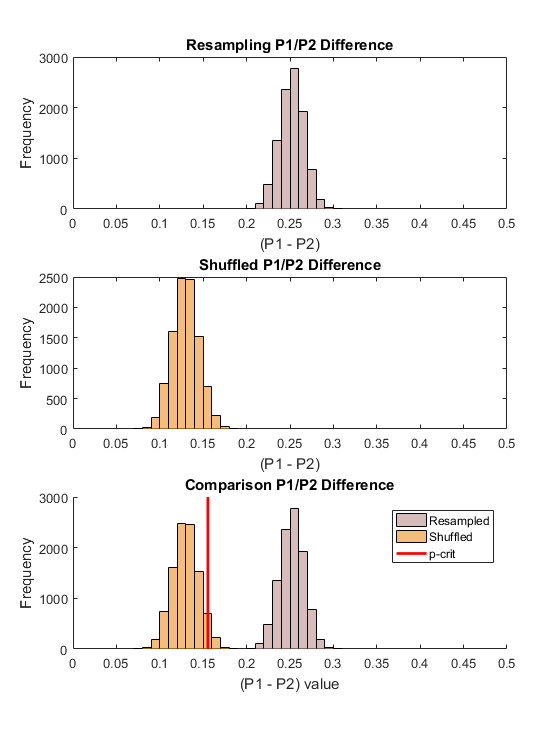
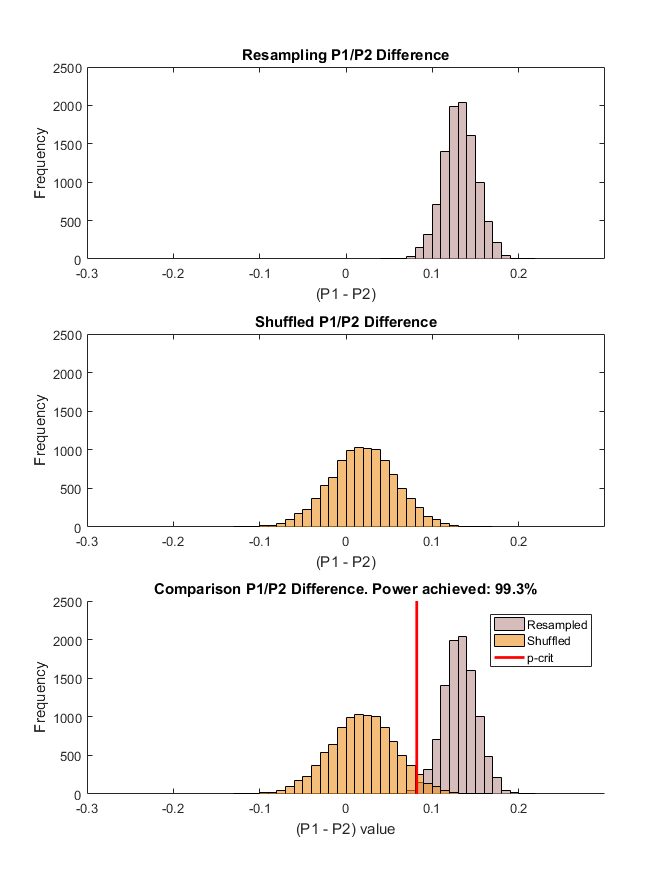
Updated quadsolve
and some minor other things

diff --git a/PECAR_resampshuffletest.m b/PECAR_resampshuffletest.m
@@ -22,58 +22,18 @@ savestuff = 0;  % Do you want to save figures?
 seed = 9192017;
 rng(seed)
 Nsamp = 10000;  % Number of samples to bootstrap
-scalehist = Nsamp/2;
+scalehist = Nsamp/4;
 
 datadr = 'C:\Users\Kit Moreland\Dropbox\UW\Research\DividedAttention\PECAR_DugueSenoussi\';
 datafile = dir([datadr,'*.mat']);
 load(fullfile(datadr, datafile.name))
 data = probe_info_valid;
 
-%% Resampling
+%% Resample and analyse, then shuffle and reanalyse for each run
 nsubj = length(data);
 
 P1_resamp = zeros(nsubj,Nsamp);
 P2_resamp = zeros(nsubj,Nsamp);
-
-for ss = 1:nsubj
-    nt = size(data{ss},1);  % Number of trials
-    
-    curd = data{ss}; % Pull current subj's data from cell array
-    
-    r1 = curd(:,3);     % Response 1
-    r2 = curd(:,4);     % Response 2
-    
-    % Resampling and analysis
-    for i = 1:Nsamp
-        
-        % Sample with replacement a sample of the same size for this
-        % subject. Need to sample the index so the pairing of probe 1 and
-        % two always remains matched.
-        idx = datasample(1:nt,nt);
-        r1tmp = r1(idx);
-        r2tmp = r2(idx);
-        
-        % Do the normal analysis for this sample and store
-        [P1_resamp(ss,i), P2_resamp(ss,i)] = quadsolve(r1tmp, r2tmp, nt);
-        
-    end
-end
-
-P1_resamp_mean = mean(P1_resamp,1);
-P2_resamp_mean = mean(P2_resamp,1);
-
-P1P2_resamp_diff = P1_resamp_mean - P2_resamp_mean;
-
-figure(1)
-clf
-subplot(3,1,1)
-histogram(P1P2_resamp_diff,'Binwidth',.01,'FaceColor',[188 143 143]/255)
-xlim([0,.5])
-xlabel('(P1 - P2)')
-ylabel('Frequency')
-title('Resampling P1/P2 Difference')
-%% Shuffling
-nsubj = length(data);
 
 P1_shuff = zeros(nsubj,Nsamp);
 P2_shuff = zeros(nsubj,Nsamp);
@@ -86,32 +46,55 @@ for ss = 1:nsubj
     r1 = curd(:,3);     % Response 1
     r2 = curd(:,4);     % Response 2
     
-    % Shuffling and analysis
     for i = 1:Nsamp
         
-        % Only shuffle one set of responses
-        idx = Shuffle(1:nt);
-        r1tmp = r1(idx);
-        r2tmp = r2;
-        
-        % Sanity check: If this shuffling works then it should keep things paired and using the same index should return the mean of the data under the original method. 
-%         r2tmp = r2(idx);
+        %--- Resampling
+        % Sample with replacement a sample of the same size for this
+        % subject. Need to sample the index so the pairing of probe 1 and
+        % two always remains matched.
+        idx = datasample(1:nt,nt);
+        r1tmp_resamp = r1(idx);
+        r2tmp_resamp = r2(idx);
         
         % Do the normal analysis for this sample and store
-        [P1_shuff(ss,i), P2_shuff(ss,i)] = quadsolve(r1tmp, r2tmp, nt);
+        [P1_resamp(ss,i), P2_resamp(ss,i)] = quadsolve(r1tmp_resamp, r2tmp_resamp, nt);
+        
+        %--- Shuffle
+        idx_sh = Shuffle(idx);
+        r1tmp_sh = r1(idx_sh); % Only shuffle one set of responses
+        r2tmp_sh = r2(idx);
+        
+        % Sanity check: If this shuffling works then it should keep things paired and using the same index should return the mean of the data under the original method. 
+%         r1tmp_sh = r1(idx);
+        
+        % Do the normal analysis for this sample and store
+        [P1_shuff(ss,i), P2_shuff(ss,i)] = quadsolve(r1tmp_sh, r2tmp_sh, nt);
         
     end
 end
 
+P1_resamp_mean = mean(P1_resamp,1);
+P2_resamp_mean = mean(P2_resamp,1);
 P1_shuff_mean = mean(P1_shuff,1);
 P2_shuff_mean = mean(P2_shuff,1);
 
+P1P2_resamp_diff = P1_resamp_mean - P2_resamp_mean;
 P1P2_shuff_diff = P1_shuff_mean - P2_shuff_mean;
 
 figure(1)
+clf
+subplot(3,1,1)
+histogram(P1P2_resamp_diff,'Binwidth',.01,'FaceColor',[188 143 143]/255)
+xlim([-.3,.3])
+ylim([0,scalehist])
+xlabel('(P1 - P2)')
+ylabel('Frequency')
+title('Resampling P1/P2 Difference')
+
 subplot(3,1,2)
 histogram(P1P2_shuff_diff,'Binwidth',.01,'FaceColor',[237 145 33]/255)
-xlim([0,.5])
+xlim([-.3,.3])
+ylim([0,scalehist])
 xlabel('(P1 - P2)')
 ylabel('Frequency')
 title('Shuffled P1/P2 Difference')
@@ -124,11 +107,10 @@ subplot(3,1,3)
 hold on
 histogram(P1P2_resamp_diff,'Binwidth',.01,'FaceColor',[188 143 143]/255)
 histogram(P1P2_shuff_diff,'Binwidth',.01,'FaceColor',[237 145 33]/255)
-xlim([0,.5])
+xlim([-.3,.3])
+ylim([0,scalehist])
 xlabel('(P1 - P2) value')
 ylabel('Frequency')
-title('Comparison P1/P2 Difference')
-
 
 p = .05; % What is our alpha?
 
@@ -140,4 +122,5 @@ legend({'Resampled','Shuffled','p-crit'})
 
 power_achieved = sum(P1P2_resamp_diff > crit)/length(P1P2_resamp_diff);
 fprintf('Power acheived: %.1f%%\n',power_achieved*100)
-ylim([0,scalehist])
+
+title(sprintf('Comparison P1/P2 Difference. Power achieved: %.1f%%',power_achieved*100))

diff --git a/PECAR_bootsim2.m b/PECAR_bootsim2.m
@@ -15,7 +15,7 @@ rng(seed)
 Nboot = 10000;  % Number of samples to bootstrap
 Nsim = 100;     % Number of times to simulate the data set
 nTrials = 1400; % Nunber of trials per simulation
-scalehist = Nsim/2;
+scalehist = Nsim/4;
 
 datadr = 'C:\Users\Kit Moreland\Dropbox\UW\Research\DividedAttention\PECAR_DugueSenoussi\';
 datafile = dir([datadr,'*.mat']);
@@ -203,14 +203,14 @@ subplot(4,3,5)
 histogram(P1_sim_switch,'BinWidth',.01)
 xlabel('P1 value')
 ylabel('Frequency')
-xlim([0,1])
+xlim([-.2,.6])
 ylim([0,scalehist])
 % P2
 subplot(4,3,8)
 histogram(P2_sim_switch,'BinWidth',.01)
 xlabel('P2 value')
 ylabel('Frequency')
-xlim([0,1])
+xlim([-.2,.6])
 ylim([0,scalehist])
 
 % pDif
@@ -219,7 +219,7 @@ subplot(4,3,11)
 histogram(Pdif_switch,'BinWidth',.01)
 xlabel('(P1 - P2) value')
 ylabel('Frequency')
-xlim([0,1])
+xlim([-.2,.6])
 ylim([0,scalehist])
 
 %% 2. Unlimited parallel
@@ -299,14 +299,14 @@ subplot(4,3,6)
 histogram(P1_sim_unlim,'BinWidth',.01)
 xlabel('P1 value')
 ylabel('Frequency')
-xlim([0,1])
+xlim([-.2,.6])
 ylim([0,scalehist])
 % P2
 subplot(4,3,9)
 histogram(P2_sim_unlim,'BinWidth',.01)
 xlabel('P2 value')
 ylabel('Frequency')
-xlim([0,1])
+xlim([-.2,.6])
 ylim([0,scalehist])
 
 % pDif
@@ -315,7 +315,8 @@ subplot(4,3,12)
 histogram(Pdif_unlim,'BinWidth',.01)
 xlabel('(P1 - P2) value')
 ylabel('Frequency')
-xlim([0,1])
+xlim([-.2,.6])
+ylim([0,scalehist])
 
 %% Calculate the achieved power under the two scenarios above
 
@@ -325,4 +326,4 @@ p = .05; % What is our alpha?
 crit = prctile(Pdif_unlim,(1-p)*100);
 power_achieved = sum(Pdif_switch > crit)/length(Pdif_switch);
 fprintf('Power acheived: %.1f%%\n',power_achieved*100)
-ylim([0,scalehist])
+text(.2,10,sprintf('Power achieved: %.1f%%',power_achieved*100))

diff --git a/quadsolve.m b/quadsolve.m
@@ -4,6 +4,9 @@
 % resp1 and resp2 are vectors of boolean responses to the probes.
 % P1 and P2 are the probabilty of being correct on the 'attended' and
 % 'unattended' sides respectively.
+%
+% JCM update 1: Don't assign the greater value to P1, just assign the first.
+% This should reduce the bias.
 
 function [P1, P2] = quadsolve(resp1, resp2, ntrials)
 
@@ -16,7 +19,12 @@ c = Pboth;
 det = b^2 - 4*c;
 
 tmp = [(b + sign(det)*sqrt(abs(det)))/2,(b - sign(det)*sqrt(abs(det)))/2];
+P1 = tmp(1);
+P2 = tmp(2);
 
-% Set so that P1 is always the more attended
-P1 = max(tmp);
-P2 = min(tmp);
+%% Update 1
+% tmp = [(b + sign(det)*sqrt(abs(det)))/2,(b - sign(det)*sqrt(abs(det)))/2];
+% 
+% % Set so that P1 is always the more attended
+% P1 = max(tmp);
+% P2 = min(tmp);
